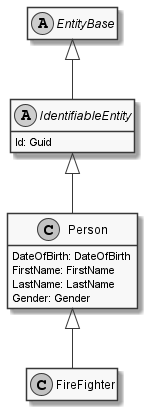
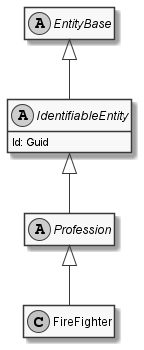
Switch the hierachy of profession

diff --git a/DoofesZeug.Generators/Src/SourceCode/ModelBuilderPattern.cs b/DoofesZeug.Generators/Src/SourceCode/ModelBuilderPattern.cs
@@ -28,6 +28,35 @@ namespace DoofesZeug.SourceCode
         //-------------------------------------------------------------------------------------------------------------------------------------------------------------------------
 
 
+        private static string GetPropertyTypeString( PropertyInfo pi )
+        {
+            string strPropertyType = pi.PropertyType.Name;
+
+            if( pi.PropertyType.IsGenericType )
+            {
+                int index = strPropertyType.IndexOf('`');
+                if( index > 0 )
+                {
+                    strPropertyType = strPropertyType.Substring(0, index);
+                }
+
+                int counter = 0;
+                strPropertyType += "<";
+                foreach( Type genty in pi.PropertyType.GenericTypeArguments )
+                {
+                    if( counter++ > 0 )
+                    {
+                        strPropertyType += ", ";
+                    }
+                    strPropertyType += genty.FullName;
+                }
+                strPropertyType += ">";
+            }
+
+            return $"{pi.PropertyType.Namespace}.{strPropertyType}";
+        }
+
+
         private static void GenerateModelBuilder( Type type )
         {
             BuilderAttribute ba = (BuilderAttribute) type.GetCustomAttribute(BUILDERATTRIBUTE);
@@ -63,7 +92,7 @@ namespace DoofesZeug.SourceCode
 
                 sb.AppendLine("");
                 sb.AppendLine("");
-                sb.AppendLine($"        public static {type.Name} {property.Name}(this {type.Name} {type.Name.ToLower()}, {property.PropertyType.Namespace}.{property.PropertyType.Name} {property.Name.ToLower()})");
+                sb.AppendLine($"        public static {type.Name} With{property.Name}(this {type.Name} {type.Name.ToLower()}, {GetPropertyTypeString(property)} {property.Name.ToLower()})");
                 sb.AppendLine("        {");
                 //sb.AppendLine("            return null;");
                 sb.AppendLine($"            {type.Name.ToLower()}.{property.Name} = {property.Name.ToLower()};");

diff --git a/DoofesZeug.TestConsole/Src/TestConsole.cs b/DoofesZeug.TestConsole/Src/TestConsole.cs
@@ -1,4 +1,5 @@
 using System;
+using System.Collections.Generic;
 
 using DoofesZeug.Extensions;
 using DoofesZeug.Models.Human;
@@ -65,43 +66,15 @@ namespace DoofesZeug
 
         static void Main( string [] args )
         {
-            FireFighter ff = new()
-            {
-                FirstName = "Fred",
-                LastName = "Zimmer",
-                Gender = Gender.Male,
-                DateOfBirth = (15, 10, 1974)
-            };
+            Person p = PersonBuilder.New().
+                WithFirstName("John").
+                WithLastName("Doe").
+                WithGender(Gender.Male).
+                WithDateOfBirth((25, 05, 1942)).
+                WithProfessions(ProfessionList.Of(new PoliceOfficer(), new FireFighter()));
 
-            Console.Out.WriteLine(ff);
-            Console.Out.WriteLine(DIV);
-
-            //-----------------------------------------------------------------
-
-            //Console.Out.WriteLine(ToXml(ff));
-            //Console.Out.WriteLine(DIV);
-
-            ////-----------------------------------------------------------------
-
-            //Console.Out.WriteLine(ToJson(ff));
-            //Console.Out.WriteLine(DIV);
-
-            ////-----------------------------------------------------------------
-
-            //Console.Out.WriteLine(ToYaml(ff));
-            //Console.Out.WriteLine(DIV);
-
-            //-----------------------------------------------------------------
-
-            Person p = PersonBuilder.New().FirstName("John").LastName("Doe").Gender(Gender.Male).DateOfBirth((25, 05, 1942));
             Console.Out.WriteLine(p.ToPrettyJson());
-
-            PoliceOfficer po = PoliceOfficerBuilder.New().FirstName("Hans").LastName("Schmitz").Gender(Gender.Male).DateOfBirth((25, 05, 1942));
-
-            Console.Out.WriteLine(po.ToPrettyJson());
             Console.Out.WriteLine(DIV);
-
-            //-----------------------------------------------------------------
         }
     }
 }

diff --git a/DoofesZeug.Generators/Src/TestData/TestDataGenerator.cs b/DoofesZeug.Generators/Src/TestData/TestDataGenerator.cs
@@ -22,8 +22,8 @@ namespace DoofesZeug.TestData
 
 
             GENERATORS.Add(typeof(Person).FullName, GeneratePerson);
-            GENERATORS.Add(typeof(FireFighter).FullName, GenerateFireFighter);
-            GENERATORS.Add(typeof(PoliceOfficer).FullName, GeneratePoliceOfficer);
+            //GENERATORS.Add(typeof(FireFighter).FullName, GenerateFireFighter);
+            //GENERATORS.Add(typeof(PoliceOfficer).FullName, GeneratePoliceOfficer);
         }
 
         //-------------------------------------------------------------------------------------------------------------------------------------------------------------------------
@@ -37,10 +37,10 @@ namespace DoofesZeug.TestData
         private static Person GeneratePerson() => new() { FirstName = "John", LastName = "Doe", Gender = Gender.Male, DateOfBirth = (27, 09, 1974) };
 
 
-        private static FireFighter GenerateFireFighter() => new() { FirstName = "John", LastName = "Doe", Gender = Gender.Male, DateOfBirth = (27, 09, 1974) };
+        //private static FireFighter GenerateFireFighter() => new() { FirstName = "John", LastName = "Doe", Gender = Gender.Male, DateOfBirth = (27, 09, 1974) };
 
 
-        private static PoliceOfficer GeneratePoliceOfficer() => new() { FirstName = "John", LastName = "Doe", Gender = Gender.Male, DateOfBirth = (27, 09, 1974) };
+        //private static PoliceOfficer GeneratePoliceOfficer() => new() { FirstName = "John", LastName = "Doe", Gender = Gender.Male, DateOfBirth = (27, 09, 1974) };
 
         //-------------------------------------------------------------------------------------------------------------------------------------------------------------------------
 

diff --git a/DoofesZeug.Library/Src/Models/Human/Person.cs b/DoofesZeug.Library/Src/Models/Human/Person.cs
@@ -1,4 +1,7 @@
-using DoofesZeug.Attributes.Pattern;
+using System.Collections.Generic;
+
+using DoofesZeug.Attributes.Pattern;
+using DoofesZeug.Models.Human.Professions;
 
 
 
@@ -12,11 +15,12 @@ namespace DoofesZeug.Models.Human
         public FirstName FirstName { get; set; }
 
         public LastName LastName { get; set; }
-        
+
         public Gender Gender { get; set; }
 
-        //-------------------------------------------------------------------------------------------------------------------------------------------------------------------------
+        public ProfessionList Professions { get; set; }
 
+        //-------------------------------------------------------------------------------------------------------------------------------------------------------------------------
 
         public override string ToString() => $"{this.LastName}, {this.FirstName}";
     }

diff --git a/DoofesZeug.Library/Src/Models/Human/Professions/Profession.cs b/DoofesZeug.Library/Src/Models/Human/Professions/Profession.cs
@@ -1,0 +1,25 @@
+using System.Collections.Generic;
+
+
+
+namespace DoofesZeug.Models.Human.Professions
+{
+    public abstract class Profession : IdentifiableEntity
+    {
+    }
+
+
+
+    public sealed class ProfessionList : List<Profession>
+    {
+        public ProfessionList( int size ) : base(size)
+        {
+        }
+
+        public ProfessionList( Profession [] profs ) : base(profs)
+        {
+        }
+
+        public static ProfessionList Of( params Profession [] profs ) => new(profs);
+    }
+}

diff --git a/DoofesZeug.Library/Src/Models/Human/Professions/PoliceOfficer.cs b/DoofesZeug.Library/Src/Models/Human/Professions/PoliceOfficer.cs
@@ -1,11 +1,9 @@
-using DoofesZeug.Attributes.Pattern;
-
+
 
 
 namespace DoofesZeug.Models.Human.Professions
 {
-    [Builder]
-    public class PoliceOfficer : Person
+    public class PoliceOfficer : Profession
     {
     }
 }

diff --git a/DoofesZeug.Library/Src/Models/Human/Professions/FireFighter.cs b/DoofesZeug.Library/Src/Models/Human/Professions/FireFighter.cs
@@ -1,11 +1,9 @@
-using DoofesZeug.Attributes.Pattern;
-
+
 
 
 namespace DoofesZeug.Models.Human.Professions
 {
-    [Builder]
-    public class FireFighter : Person
+    public class FireFighter : Profession
     {
     }
 }

diff --git a/Documentation/Miscelleaous/ToDo.md b/Documentation/Miscelleaous/ToDo.md
@@ -1,8 +1,8 @@
 # ToDo
 
-- Generate Document mit all Enumerations, too ...
+- Profession: Add abstract Enumeartion Field, damit wenn als JSON wir auch eine Unterscheidung haben.
 - Generate Document mit all Attributes, too ...
-- MatheStuff, z.b geometrische Figuren Rectangle, Circle, und direkt mit ein paar Messmethoden?
+- MatheStuff, z.b geometrische Figuren Rectangle, Circle, und direkt mit ein paar Meßmethoden?
 - Fill EntityOverview Files with the stuff.
 - Generic Singelton Pattern
 - Attribute for Default Value at Properties?
